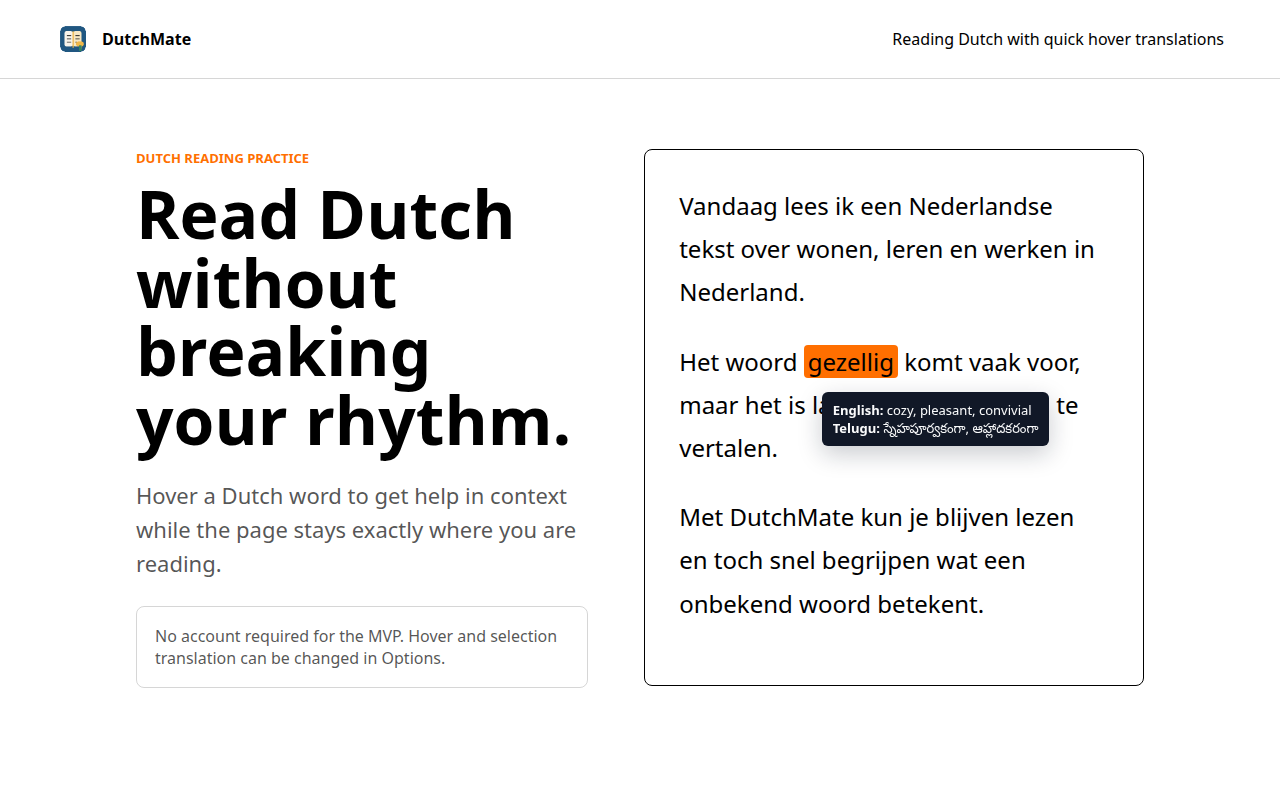
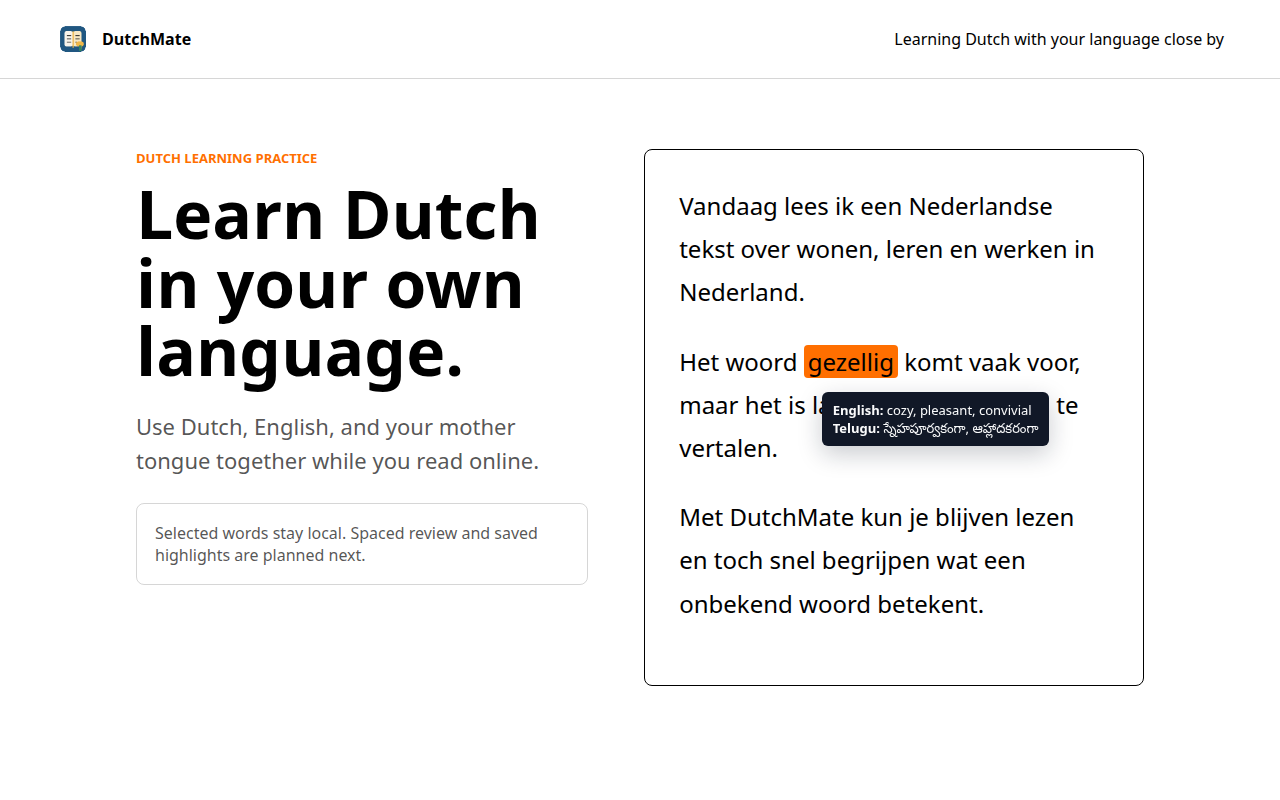
Revise DutchMate learning copy

Changed region(s): [[0.0938, 0.1875, 0.4688, 0.7188], [0.125, 0.7812, 0.4375, 0.8438], [0.6875, 0.0312, 0.9688, 0.0625]]

diff --git a/frontend/index.html b/frontend/index.html
@@ -3,8 +3,8 @@
   <head>
     <meta charset="utf-8">
     <meta name="viewport" content="width=device-width, initial-scale=1">
-    <meta name="description" content="DutchMate helps Dutch learners translate hovered words and selected text while reading real websites.">
-    <title>DutchMate | Translate while reading Dutch websites</title>
+    <meta name="description" content="DutchMate helps you learn Dutch online with Dutch, English, and your mother tongue close by.">
+    <title>DutchMate | Learn Dutch while reading online</title>
     <link rel="icon" href="assets/dutchmate-mark.svg" type="image/svg+xml">
     <link rel="stylesheet" href="styles.css">
   </head>
@@ -16,7 +16,7 @@
           <span>DutchMate</span>
         </a>
         <div class="nav-links">
-          <a href="#how-it-works">How it works</a>
+          <a href="#how-it-works">Learn</a>
           <a href="#privacy">Privacy</a>
           <a href="privacy-policy.html">Privacy policy</a>
           <a class="button" href="#get-dutchmate">Get DutchMate</a>
@@ -27,17 +27,17 @@
     <main>
       <section class="hero">
         <div>
-          <p class="eyebrow">Dutch reading support for English and Telugu speakers</p>
-          <h1>Read Dutch websites without losing your flow.</h1>
-          <p class="lead">DutchMate gives quick translations for hovered words and selected text, so you can keep reading real Dutch pages with just enough help in context.</p>
+          <p class="eyebrow">Learn Dutch through the web you already read</p>
+          <h1>Learn Dutch in your own language.</h1>
+          <p class="lead">Use Dutch, English, and your mother tongue together while you read online. Hover or select text to keep meaning close without leaving the page.</p>
           <div class="hero-actions" id="get-dutchmate">
             <a class="button" href="#availability">Join the first release</a>
             <a class="button secondary" href="privacy-policy.html">Read privacy policy</a>
           </div>
           <div class="trust-row" aria-label="Product highlights">
-            <span>No account for the MVP</span>
-            <span>English, Dutch, and Telugu</span>
-            <span>Built for real webpages</span>
+            <span>Dutch + English + your language</span>
+            <span>Selected words stay local</span>
+            <span>Spaced review planned next</span>
           </div>
         </div>
 
@@ -65,66 +65,66 @@
 
       <section class="section" id="how-it-works">
         <div class="section-header">
-          <h2>Learning help that stays close to the text.</h2>
-          <p>Instead of opening a separate translation tab, DutchMate keeps lightweight help beside the sentence you are already reading.</p>
+          <h2>Learn from real pages.</h2>
+          <p>DutchMate keeps language help beside the text, so Dutch can grow from what you already read online.</p>
         </div>
         <div class="steps">
           <div class="step">
             <span>1</span>
-            <h3>Hover a word</h3>
-            <p>Pause on a Dutch word to get a quick meaning without leaving the page.</p>
+            <h3>Choose your languages</h3>
+            <p>Set Dutch as the learning language, your mother tongue as support, and English as a bridge.</p>
           </div>
           <div class="step">
             <span>2</span>
-            <h3>Select short text</h3>
-            <p>Highlight a phrase or sentence when a single word is not enough.</p>
+            <h3>Look up in context</h3>
+            <p>Hover a word or select short text on Dutch, English, or mother-tongue pages.</p>
           </div>
           <div class="step">
             <span>3</span>
-            <h3>Keep reading</h3>
-            <p>Use the translation as a nudge, then return to the article, email, or lesson.</p>
+            <h3>Build a word habit</h3>
+            <p>Selected single words stay local now; highlighted word saving and spaced review are planned next.</p>
           </div>
         </div>
       </section>
 
       <section class="section">
         <div class="section-header">
-          <h2>Made for early Dutch learners who read online.</h2>
-          <p>DutchMate is intentionally small: it focuses on the moments where you understand most of a page, but need a quick bit of help to continue.</p>
+          <h2>Small on purpose.</h2>
+          <p>The first release focuses on fast lookup, local word storage, and a clear path toward flashcard-style revision.</p>
         </div>
         <div class="grid-3">
           <article class="feature">
-            <h3>Works on normal webpages</h3>
-            <p>Use it while reading Dutch news, blogs, forms, and learning material in the browser.</p>
+            <h3>Normal webpages</h3>
+            <p>Use it on the Dutch, English, and mother-tongue pages you already visit.</p>
           </article>
           <article class="feature">
-            <h3>Useful multilingual support</h3>
-            <p>The MVP focuses on Dutch, English, and Telugu, matching the first learner audience.</p>
+            <h3>Mother-tongue support</h3>
+            <p>Learn Dutch with English as a bridge and your own language, such as Telugu, beside it.</p>
           </article>
           <article class="feature">
-            <h3>Small, focused controls</h3>
-            <p>Turn hover and selection translation on or off, change languages, and clear the local cache.</p>
+            <h3>Local word storage</h3>
+            <p>Selected single-word lookups are stored in your browser only, and you can clear them.</p>
           </article>
         </div>
       </section>
 
       <section class="section" id="privacy">
         <div class="section-header">
-          <h2>Clear about what gets sent.</h2>
-          <p>DutchMate has to send the text you ask to translate to its backend, which uses Google Cloud Translation. It does not require an account for the MVP and does not sell user data.</p>
+          <h2>Local where possible.</h2>
+          <p>DutchMate sends text you ask to translate to its backend, but selected single-word storage stays in your browser.</p>
         </div>
         <div class="grid-3">
           <article class="privacy-note">
             <h3>You choose the text</h3>
-            <p>Hovered words and selected text may be sent for translation depending on your settings and actions.</p>
+            <p>Hover and selection decide what is translated.</p>
           </article>
           <article class="privacy-note">
-            <h3>Local cache stays local</h3>
-            <p>Successful selected single-word lookups can be cached in your browser to make repeated lookups faster.</p>
+            <h3>Words stay local</h3>
+            <p>Selected single-word lookups are cached locally for faster repeat learning.</p>
           </article>
           <article class="privacy-note">
-            <h3>Private pages need care</h3>
-            <p>Avoid using DutchMate on sensitive pages if you do not want that text sent for translation.</p>
+            <h3>Spaced review planned</h3>
+            <p>Saved highlights and interval flashcards are planned for a future learning mode.</p>
           </article>
         </div>
       </section>
@@ -132,7 +132,7 @@
       <section class="section" id="availability">
         <div class="cta-band">
           <h2>First public release is being prepared.</h2>
-          <p>DutchMate is heading toward a browser-store MVP release for Dutch learners. Store links will appear here after review and publication.</p>
+          <p>Store links will appear here after review and publication.</p>
           <a class="button secondary" href="mailto:[email redacted]">Contact the maker</a>
         </div>
       </section>

diff --git a/frontend/privacy-policy.html b/frontend/privacy-policy.html
@@ -27,7 +27,7 @@
       <h1>DutchMate Privacy Policy</h1>
       <p>Last updated: 2026-06-17</p>
 
-      <p>DutchMate is a browser extension that helps people read Dutch websites by translating hovered words and selected text into English, Dutch, and Telugu.</p>
+      <p>DutchMate is a browser extension that helps people learn Dutch online by translating hovered words and selected text between Dutch, English, and a supported mother tongue such as Telugu.</p>
       <p>DutchMate does not require an account for the MVP.</p>
       <p>When you ask DutchMate to translate something, the extension sends that text to the DutchMate backend. The backend uses Google Cloud Translation to return the translation.</p>
       <p>DutchMate does not sell user data and does not use translated text for advertising.</p>

diff --git a/docs/chrome-web-store-listing-draft.md b/docs/chrome-web-store-listing-draft.md
@@ -15,7 +15,7 @@ DutchMate
 Short description:
 
 ```text
-Translate hovered words and selected text while reading Dutch websites.
+Learn Dutch online with hover and selection translations in Dutch, English, and your language.
 ```
 
 Category:
@@ -45,11 +45,15 @@ https://dutchmate-frontend.onrender.com/privacy-policy.html
 ## Full Description
 
 ```text
-DutchMate is a small browser extension for Dutch learners.
+DutchMate is a small browser extension for learning Dutch while reading online.
 
-It helps you read Dutch websites by translating hovered words and selected text. The MVP supports Dutch, English, and Telugu.
+It helps you use Dutch, English, and your mother tongue together while reading normal webpages. The MVP supports Dutch, English, and Telugu.
 
-You can use DutchMate while reading normal webpages. Hover over a word or select a short phrase or sentence to see translations in context.
+Hover over a word or select a short phrase or sentence to see translations in context. You can choose your learning language, use English as a bridge language, and keep your mother tongue close for meaning.
+
+Selected single-word lookups can be stored locally in your browser to make repeat learning faster. Hovered words, selected phrases, selected sentences, and failed translations are not stored in the local translation cache.
+
+Saved highlighted words and interval flashcard revision are planned next learning features, inspired by spaced-repetition tools such as Anki.
 
 DutchMate does not require an account, subscription, or payment for the MVP.
 
@@ -59,7 +63,7 @@ Privacy note: DutchMate sends the text you ask to translate to the DutchMate bac
 ## Single Purpose
 
 ```text
-DutchMate provides quick reading support for Dutch learners by translating user-hovered or user-selected webpage text.
+DutchMate helps users learn Dutch online by translating user-hovered or user-selected webpage text between Dutch, English, and a supported mother tongue.
 ```
 
 ## User Data Disclosure
@@ -113,7 +117,7 @@ DutchMate sends translation requests over HTTPS to the DutchMate backend. Provid
 ## Reviewer Notes
 
 ```text
-DutchMate is a Manifest V3 browser extension for Dutch reading support.
+DutchMate is a Manifest V3 browser extension for Dutch learning support.
 
 The extension translates hovered words and selected text through the DutchMate backend at https://dutchmate-backend.onrender.com/translate, which uses Google Cloud Translation.
 
@@ -134,9 +138,9 @@ Store-ready builds hide provider endpoint and API-key override controls from nor
 Use this outside the store when sharing with the Dutch learner WhatsApp group:
 
 ```text
-Hi everyone! I built a small browser extension for myself while reading Dutch websites, and I thought it might be useful to a few people here too.
+Hi everyone! I built a small browser extension for myself while learning Dutch online, and I thought it might be useful to a few people here too.
 
-It lets you hover over words or select short text on a webpage to see translations. It currently supports Dutch, English, and Telugu.
+It lets you hover over words or select short text on a webpage to see translations between Dutch, English, and Telugu. The idea is to learn Dutch with English as a bridge and your own language close by.
 
 No pressure at all, but feel free to try it if it sounds useful. If anyone finds it helpful, confusing, broken, or not useful, I would be happy to hear.
 ```

diff --git a/docs/store-disclosure-draft.md b/docs/store-disclosure-draft.md
@@ -9,29 +9,29 @@ This draft is based on [privacy-policy.md](privacy-policy.md) and the current MV
 ## Product Summary
 
 ```text
-DutchMate helps Dutch learners read websites by translating hovered words and selected text into English, Dutch, and Telugu.
+DutchMate helps people learn Dutch online by translating hovered words and selected text between Dutch, English, and a supported mother tongue such as Telugu.
 ```
 
 ## Short Description
 
 ```text
-Translate hovered words and selected text while reading Dutch websites.
+Learn Dutch online with hover and selection translations in Dutch, English, and your language.
 ```
 
 ## Longer Description
 
 ```text
-DutchMate is a small browser extension for Dutch learners.
+DutchMate is a small browser extension for learning Dutch while reading online.
 
-It lets you hover over words or select short text on a webpage to see translations. The MVP supports Dutch, English, and Telugu.
+It lets you hover over words or select short text on a webpage to see translations between Dutch, English, and a supported mother tongue such as Telugu.
 
-DutchMate is intended for reading support while learning Dutch. It does not require an account, subscription, or payment for the MVP.
+DutchMate is intended for language support while learning Dutch from real webpages. It does not require an account, subscription, or payment for the MVP.
 ```
 
 ## Single Purpose
 
 ```text
-DutchMate provides quick reading support for Dutch learners by translating user-hovered or user-selected webpage text.
+DutchMate helps users learn Dutch online by translating user-hovered or user-selected webpage text between Dutch, English, and a supported mother tongue.
 ```
 
 ## Privacy Policy URL
@@ -129,7 +129,7 @@ DutchMate does not require an account, does not sell user data, and does not use
 ### Notes For Reviewers
 
 ```text
-DutchMate is a Manifest V3 browser extension for Dutch reading support.
+DutchMate is a Manifest V3 browser extension for Dutch learning support.
 
 The extension uses https://dutchmate-backend.onrender.com/translate by default for translation requests. The backend uses Google Cloud Translation.
 

diff --git a/docs/whatsapp-mvp-tester-instructions.md b/docs/whatsapp-mvp-tester-instructions.md
@@ -4,14 +4,14 @@ Last updated: 2026-06-16
 
 Use this page when gently sharing DutchMate with a moderate WhatsApp group of Dutch learners.
 
-DutchMate is an early browser extension originally built for personal Dutch reading practice. It helps English and Telugu speakers translate hovered words and selected text while reading Dutch websites.
+DutchMate is an early browser extension originally built for personal Dutch learning. It helps you use Dutch, English, and your mother tongue together while reading online.
 
 ## Gentle Share Message
 
 ```text
-Hi everyone! I built a small browser extension for myself while reading Dutch websites, and I thought it might be useful to a few people here too.
+Hi everyone! I built a small browser extension for myself while learning Dutch online, and I thought it might be useful to a few people here too.
 
-It lets you hover over words or select short text on a webpage to see translations. It currently supports Dutch, English, and Telugu.
+It lets you hover over words or select short text on a webpage to see translations between Dutch, English, and Telugu. The idea is to learn Dutch with English as a bridge and your own language close by.
 
 No pressure at all, but feel free to try it if it sounds useful. If anyone finds it helpful, confusing, broken, or not useful, I would be happy to hear.
 ```
@@ -21,7 +21,7 @@ No pressure at all, but feel free to try it if it sounds useful. If anyone finds
 This may be useful for people who:
 
 - are learning Dutch;
-- read Dutch websites in Chrome or Firefox;
+- learn Dutch from normal websites in Chrome or Firefox;
 - sometimes want quick English or Telugu help while reading;
 - are comfortable trying an early, simple tool.
 

diff --git a/README.md b/README.md
@@ -1,8 +1,8 @@
 # DutchMate
 
-Learn Dutch while reading, with English and Telugu by your side.
+Learn Dutch online with English and your mother tongue close by.
 
-DutchMate helps English and Telugu speakers learn Dutch while reading websites, with quick hover and selection translations in context.
+DutchMate helps Dutch learners use Dutch, English, and a supported mother tongue such as Telugu together while reading websites, with quick hover and selection translations in context.
 
 ## Current Scope
 

diff --git a/docs/chrome-web-store-screenshot-plan.md b/docs/chrome-web-store-screenshot-plan.md
@@ -83,7 +83,7 @@ Date: 2026-06-17
 File: assets/store/chrome/screenshots/01-hover-translation-1280x800.png
 Result: Captured
 Dimensions: 1280x800
-Scenario: Hover translation on a clean Dutch reading page with the restored Book Bubble icon visible.
+Scenario: Hover translation on a clean Dutch learning page with the restored Book Bubble icon visible.
 Notes: Automated Chrome loaded the built content script UI for capture. The automated browser did not inject the unpacked extension content script reliably, so this screenshot should be treated as the first store-asset candidate and can be manually recaptured before final upload if desired.
 ```
 

diff --git a/docs/privacy-policy-draft.md b/docs/privacy-policy-draft.md
@@ -6,7 +6,7 @@ This draft was used to prepare [privacy-policy.md](privacy-policy.md), the publi
 
 ## Summary
 
-DutchMate is a browser extension that helps people read Dutch websites by translating hovered words and selected text into English, Dutch, and Telugu.
+DutchMate is a browser extension that helps people learn Dutch online by translating hovered words and selected text between Dutch, English, and a supported mother tongue such as Telugu.
 
 DutchMate does not require an account for the MVP.
 

diff --git a/docs/privacy-policy.md b/docs/privacy-policy.md
@@ -2,7 +2,7 @@
 
 Last updated: 2026-06-17
 
-DutchMate is a browser extension that helps people read Dutch websites by translating hovered words and selected text into English, Dutch, and Telugu.
+DutchMate is a browser extension that helps people learn Dutch online by translating hovered words and selected text between Dutch, English, and a supported mother tongue such as Telugu.
 
 DutchMate does not require an account for the MVP.
 

diff --git a/docs/store-package-preparation-checklist.md b/docs/store-package-preparation-checklist.md
@@ -172,7 +172,7 @@ Use [chrome-web-store-listing-draft.md](chrome-web-store-listing-draft.md) and [
 ## Reviewer Notes Draft
 
 ```text
-DutchMate is a Manifest V3 browser extension for Dutch reading support.
+DutchMate is a Manifest V3 browser extension for Dutch learning support.
 
 The extension translates hovered words and selected text through the DutchMate backend at https://dutchmate-backend.onrender.com/translate, which uses Google Cloud Translation.
 